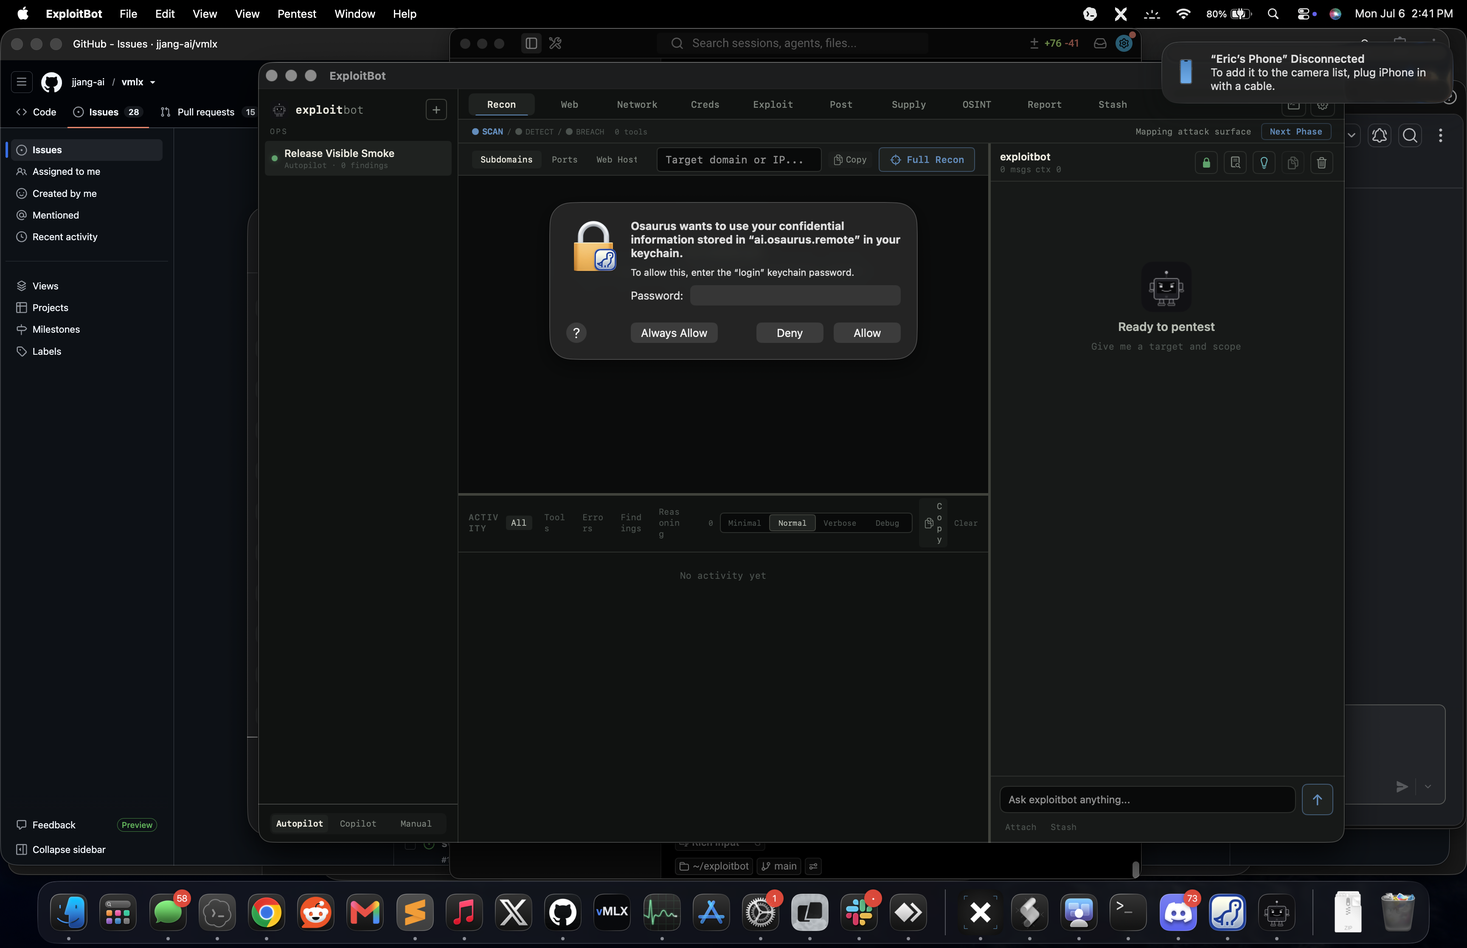
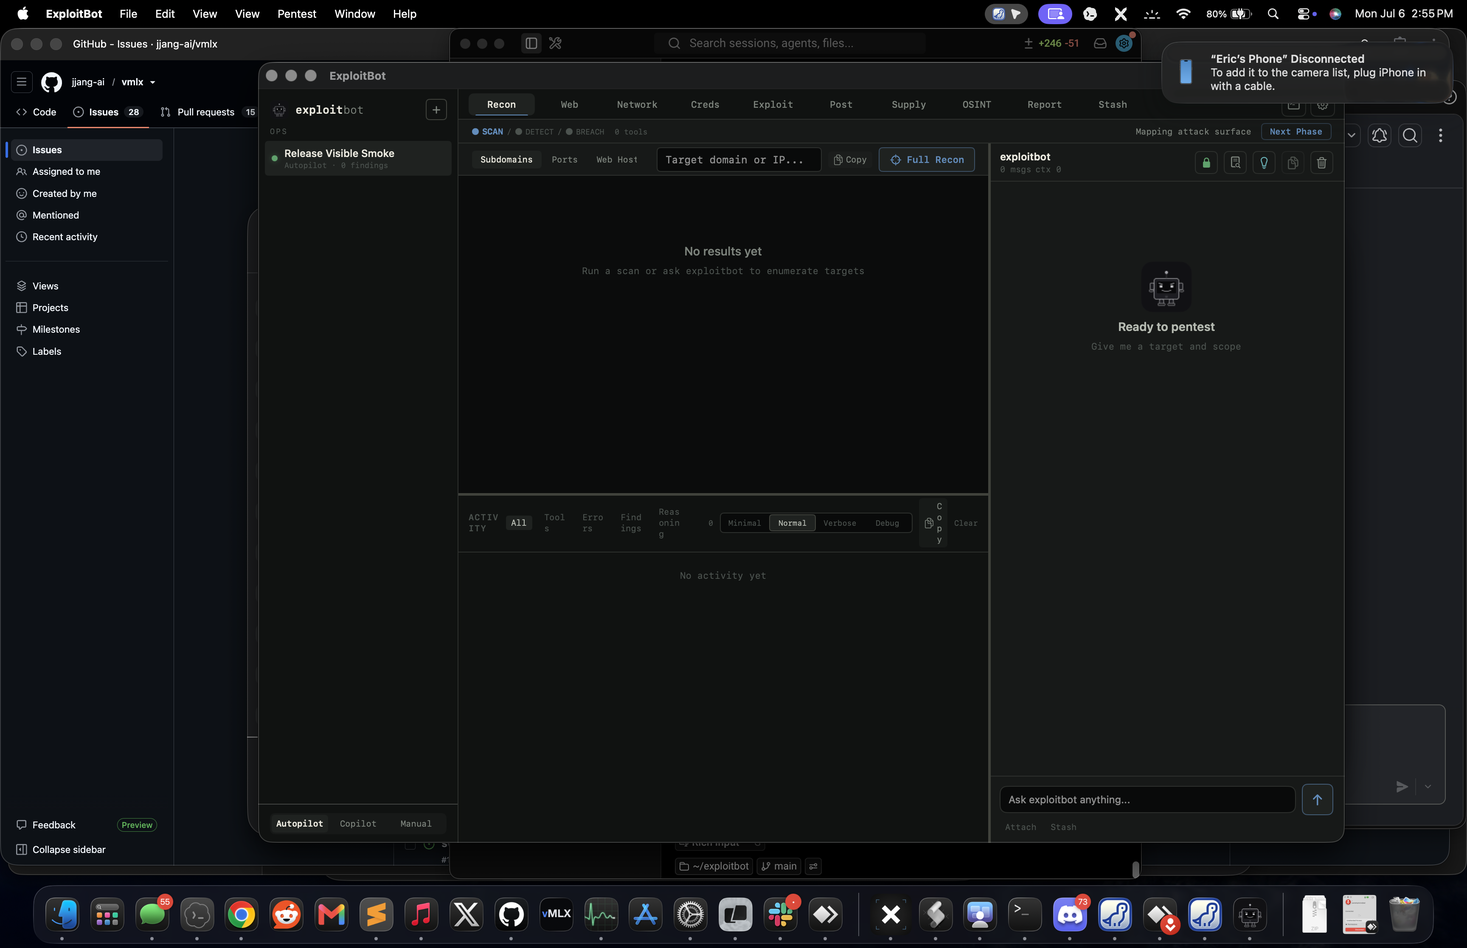
Localize onboarding flow

diff --git a/ExploitBot/Sources/ExploitBot/Views/Onboarding/OnboardingView.swift b/ExploitBot/Sources/ExploitBot/Views/Onboarding/OnboardingView.swift
@@ -67,12 +67,12 @@ struct OnboardingView: View {
             HStack {
                 if step > 1 {
                     Button(action: { withAnimation { step -= 1 } }) {
-                        Text("Back").font(.system(size: 13)).foregroundColor(.textMuted)
+                        Text(Localizer.shared.t("onboard.back")).font(.system(size: 13)).foregroundColor(.textMuted)
                     }.buttonStyle(.plain)
                 }
                 Spacer()
                 Button(action: advance) {
-                    Text(step == totalSteps ? "Start Op" : "Continue")
+                    Text(Localizer.shared.t(step == totalSteps ? "onboard.startOp" : "onboard.continue"))
                         .font(.system(size: 13, weight: .semibold))
                         .foregroundColor(canAdvance ? .accentBlue : .textDim)
                         .padding(.horizontal, 24).padding(.vertical, 8)
@@ -99,7 +99,7 @@ struct OnboardingView: View {
         VStack(spacing: 20) {
             Text(Localizer.shared.t("onboard.language"))
                 .font(.system(size: 24, weight: .bold)).foregroundColor(.textPrimary)
-            Text("exploitbot will display all menus, tools, and reports in your selected language.")
+            Text(Localizer.shared.t("onboard.language.subtitle"))
                 .font(.system(size: 14)).foregroundColor(.textMuted).multilineTextAlignment(.center)
 
             let langs: [(String, String, String)] = [
@@ -149,9 +149,9 @@ struct OnboardingView: View {
 
     var modelStep: some View {
         VStack(spacing: 20) {
-            Text("Select a model")
+            Text(Localizer.shared.t("onboard.model"))
                 .font(.system(size: 24, weight: .bold)).foregroundColor(.textPrimary)
-            Text("Choose a Qwen or MiniMax JANG/JANGTQ model folder on your Mac. The app reads config.json, jang_config.json, and generation_config.json automatically.")
+            Text(Localizer.shared.t("onboard.model.subtitle"))
                 .font(.system(size: 14)).foregroundColor(.textMuted).multilineTextAlignment(.center)
 
             // RAM detection
@@ -160,7 +160,7 @@ struct OnboardingView: View {
                 Image(systemName: "memorychip")
                     .font(.system(size: 13, weight: .semibold))
                     .foregroundColor(.accentBlue)
-                Text("Detected: \(ram) GB Unified Memory")
+                Text(Localizer.shared.t("onboard.model.detectedMemory", Int(ram)))
                     .font(.mono11).foregroundColor(.accentBlue)
             }
             .padding(8)
@@ -170,17 +170,17 @@ struct OnboardingView: View {
 
             // Local model
             VStack(spacing: 8) {
-                Text("Select a model folder already on your Mac:")
+                Text(Localizer.shared.t("onboard.model.folderPrompt"))
                     .font(.system(size: 12)).foregroundColor(.textDim)
                 HStack {
-                    TextField("Model folder path...", text: $modelPath)
+                    TextField(Localizer.shared.t("onboard.model.folderPlaceholder"), text: $modelPath)
                         .textFieldStyle(.plain).font(.mono12).foregroundColor(.textPrimary)
                         .padding(8)
                         .background(RoundedRectangle(cornerRadius: 4).fill(Color.bgInput).overlay(
                             RoundedRectangle(cornerRadius: 4).stroke(Color.borderSubtle)
                         ))
                     Button(action: browseModel) {
-                        Text("Browse").font(.mono11).foregroundColor(.textMuted)
+                        Text(Localizer.shared.t("common.browse")).font(.mono11).foregroundColor(.textMuted)
                             .padding(.horizontal, 12).padding(.vertical, 6)
                             .background(RoundedRectangle(cornerRadius: 4).stroke(Color.borderSubtle))
                     }.buttonStyle(.plain)
@@ -207,15 +207,15 @@ struct OnboardingView: View {
 
     var firstOpStep: some View {
         VStack(spacing: 20) {
-            Text("Create your first Op")
+            Text(Localizer.shared.t("onboard.firstOp"))
                 .font(.system(size: 24, weight: .bold)).foregroundColor(.textPrimary)
-            Text("An Op is a named workspace for a pentest engagement. All tools, findings, and context live inside it.")
+            Text(Localizer.shared.t("onboard.firstOp.subtitle"))
                 .font(.system(size: 14)).foregroundColor(.textMuted).multilineTextAlignment(.center)
 
             VStack(alignment: .leading, spacing: 14) {
                 VStack(alignment: .leading, spacing: 4) {
-                    Text("Op Name").font(.system(size: 12, weight: .semibold)).foregroundColor(.textSecondary)
-                    TextField("e.g. Acme Corp External, Bug Bounty, Lab Practice", text: $opName)
+                    Text(Localizer.shared.t("onboard.firstOp.name")).font(.system(size: 12, weight: .semibold)).foregroundColor(.textSecondary)
+                    TextField(Localizer.shared.t("onboard.firstOp.namePlaceholder"), text: $opName)
                         .textFieldStyle(.plain).font(.system(size: 13)).foregroundColor(.textPrimary)
                         .padding(10)
                         .background(RoundedRectangle(cornerRadius: 4).fill(Color.bgInput).overlay(
@@ -224,8 +224,8 @@ struct OnboardingView: View {
                 }
 
                 VStack(alignment: .leading, spacing: 4) {
-                    Text("Scope (optional)").font(.system(size: 12, weight: .semibold)).foregroundColor(.textSecondary)
-                    Text("In-scope targets — one per line").font(.mono9).foregroundColor(.textDim)
+                    Text(Localizer.shared.t("onboard.firstOp.scope")).font(.system(size: 12, weight: .semibold)).foregroundColor(.textSecondary)
+                    Text(Localizer.shared.t("onboard.firstOp.scopeHint")).font(.mono9).foregroundColor(.textDim)
                     TextEditor(text: $scopeText)
                         .font(.mono12).foregroundColor(.textPrimary)
                         .scrollContentBackground(.hidden)
@@ -237,16 +237,16 @@ struct OnboardingView: View {
                 }
 
                 VStack(alignment: .leading, spacing: 4) {
-                    Text("Interaction Mode").font(.system(size: 12, weight: .semibold)).foregroundColor(.textSecondary)
+                    Text(Localizer.shared.t("onboard.firstOp.interactionMode")).font(.system(size: 12, weight: .semibold)).foregroundColor(.textSecondary)
                     HStack(spacing: 8) {
-                        ModeCard(symbol: "gearshape.2", name: "Autopilot", desc: "Full autonomous", selected: selectedMode == .autopilot) { selectedMode = .autopilot }
-                        ModeCard(symbol: "person.2", name: "Copilot", desc: "AI suggests, you approve", selected: selectedMode == .copilot) { selectedMode = .copilot }
-                        ModeCard(symbol: "scope", name: "Manual", desc: "You drive", selected: selectedMode == .manual) { selectedMode = .manual }
+                        ModeCard(symbol: "gearshape.2", name: Localizer.shared.t("mode.autopilot"), desc: Localizer.shared.t("mode.autopilot.desc"), selected: selectedMode == .autopilot) { selectedMode = .autopilot }
+                        ModeCard(symbol: "person.2", name: Localizer.shared.t("mode.copilot"), desc: Localizer.shared.t("mode.copilot.desc"), selected: selectedMode == .copilot) { selectedMode = .copilot }
+                        ModeCard(symbol: "scope", name: Localizer.shared.t("mode.manual"), desc: Localizer.shared.t("mode.manual.desc"), selected: selectedMode == .manual) { selectedMode = .manual }
                     }
                 }
 
                 Toggle(isOn: $enforceScope) {
-                    Text("Enforce scope (block out-of-scope targets)")
+                    Text(Localizer.shared.t("onboard.firstOp.enforceScope"))
                         .font(.system(size: 12)).foregroundColor(.textMuted)
                 }
                 .toggleStyle(DarkSwitchToggleStyle())
@@ -290,7 +290,7 @@ struct OnboardingView: View {
         let panel = NSOpenPanel()
         panel.canChooseDirectories = true
         panel.canChooseFiles = false
-        panel.message = "Select a JANG/MLX model folder"
+        panel.message = Localizer.shared.t("onboard.model.folderPicker")
         if panel.runModal() == .OK, let url = panel.url {
             selectModelFolder(url.path)
         } else {
@@ -305,9 +305,9 @@ struct OnboardingView: View {
 
     func stepLabel(_ s: Int) -> String {
         switch s {
-        case 1: return "Language"
-        case 2: return "Model"
-        case 3: return "First Op"
+        case 1: return Localizer.shared.t("onboard.language")
+        case 2: return Localizer.shared.t("onboard.model")
+        case 3: return Localizer.shared.t("onboard.firstOp")
         default: return ""
         }
     }

diff --git a/ExploitBot/Sources/ExploitBot/Services/Localizer.swift b/ExploitBot/Sources/ExploitBot/Services/Localizer.swift
@@ -150,12 +150,54 @@ class Localizer {
             "es": "Elige tu idioma",
             "ja": "言語を選択してください"
         ],
+        "onboard.language.subtitle": [
+            "en": "exploitbot will display all menus, tools, and reports in your selected language.",
+            "ko": "exploitbot은 선택한 언어로 모든 메뉴, 도구, 보고서를 표시합니다.",
+            "zh": "exploitbot 将使用你选择的语言显示所有菜单、工具和报告。",
+            "es": "exploitbot mostrará todos los menús, herramientas e informes en el idioma elegido.",
+            "ja": "exploitbot は選択した言語ですべてのメニュー、ツール、レポートを表示します。"
+        ],
         "onboard.model": [
             "en": "Select a model",
             "ko": "모델 선택",
             "zh": "选择模型",
             "es": "Selecciona un modelo",
             "ja": "モデルを選択"
+        ],
+        "onboard.model.subtitle": [
+            "en": "Choose a Qwen or MiniMax JANG/JANGTQ model folder on your Mac. The app reads config.json, jang_config.json, and generation_config.json automatically.",
+            "ko": "Mac의 Qwen 또는 MiniMax JANG/JANGTQ 모델 폴더를 선택하세요. 앱은 config.json, jang_config.json, generation_config.json을 자동으로 읽습니다.",
+            "zh": "选择 Mac 上的 Qwen 或 MiniMax JANG/JANGTQ 模型文件夹。应用会自动读取 config.json、jang_config.json 和 generation_config.json。",
+            "es": "Elige una carpeta de modelo Qwen o MiniMax JANG/JANGTQ en tu Mac. La app lee config.json, jang_config.json y generation_config.json automáticamente.",
+            "ja": "Mac 上の Qwen または MiniMax JANG/JANGTQ モデルフォルダを選択してください。アプリは config.json、jang_config.json、generation_config.json を自動的に読み取ります。"
+        ],
+        "onboard.model.detectedMemory": [
+            "en": "Detected: %d GB Unified Memory",
+            "ko": "감지됨: %d GB 통합 메모리",
+            "zh": "已检测：%d GB 统一内存",
+            "es": "Detectado: %d GB de memoria unificada",
+            "ja": "検出: %d GB ユニファイドメモリ"
+        ],
+        "onboard.model.folderPrompt": [
+            "en": "Select a model folder already on your Mac:",
+            "ko": "Mac에 이미 있는 모델 폴더를 선택하세요:",
+            "zh": "选择 Mac 上已有的模型文件夹：",
+            "es": "Selecciona una carpeta de modelo que ya esté en tu Mac:",
+            "ja": "Mac 上にあるモデルフォルダを選択してください:"
+        ],
+        "onboard.model.folderPlaceholder": [
+            "en": "Model folder path...",
+            "ko": "모델 폴더 경로...",
+            "zh": "模型文件夹路径...",
+            "es": "Ruta de la carpeta del modelo...",
+            "ja": "モデルフォルダのパス..."
+        ],
+        "onboard.model.folderPicker": [
+            "en": "Select a JANG/MLX model folder",
+            "ko": "JANG/MLX 모델 폴더 선택",
+            "zh": "选择 JANG/MLX 模型文件夹",
+            "es": "Selecciona una carpeta de modelo JANG/MLX",
+            "ja": "JANG/MLX モデルフォルダを選択"
         ],
         "onboard.firstOp": [
             "en": "Create your first Op",
@@ -164,9 +206,49 @@ class Localizer {
             "es": "Crea tu primer Op",
             "ja": "最初の Op を作成"
         ],
+        "onboard.firstOp.subtitle": [
+            "en": "An Op is a named workspace for a pentest engagement. All tools, findings, and context live inside it.",
+            "ko": "Op는 모의해킹 작업을 위한 이름 있는 작업 공간입니다. 모든 도구, 발견 사항, 컨텍스트가 그 안에 저장됩니다.",
+            "zh": "Op 是渗透测试项目的命名工作区。所有工具、发现和上下文都保存在其中。",
+            "es": "Una Op es un espacio de trabajo con nombre para un pentest. Todas las herramientas, hallazgos y contexto viven ahí.",
+            "ja": "Op はペンテスト案件用の名前付きワークスペースです。すべてのツール、検出結果、コンテキストがそこに保存されます。"
+        ],
+        "onboard.firstOp.name": ["en": "Op Name", "ko": "Op 이름", "zh": "Op 名称", "es": "Nombre de Op", "ja": "Op 名"],
+        "onboard.firstOp.namePlaceholder": [
+            "en": "e.g. Acme Corp External, Bug Bounty, Lab Practice",
+            "ko": "예: Acme Corp External, Bug Bounty, Lab Practice",
+            "zh": "例如：Acme Corp External、Bug Bounty、Lab Practice",
+            "es": "p. ej. Acme Corp External, Bug Bounty, Lab Practice",
+            "ja": "例: Acme Corp External、Bug Bounty、Lab Practice"
+        ],
+        "onboard.firstOp.scope": ["en": "Scope (optional)", "ko": "범위(선택)", "zh": "范围（可选）", "es": "Alcance (opcional)", "ja": "スコープ（任意）"],
+        "onboard.firstOp.scopeHint": [
+            "en": "In-scope targets - one per line",
+            "ko": "범위 내 대상 - 한 줄에 하나씩",
+            "zh": "范围内目标 - 每行一个",
+            "es": "Objetivos dentro del alcance - uno por línea",
+            "ja": "対象範囲内ターゲット - 1 行に 1 つ"
+        ],
+        "onboard.firstOp.interactionMode": [
+            "en": "Interaction Mode",
+            "ko": "상호작용 모드",
+            "zh": "交互模式",
+            "es": "Modo de interacción",
+            "ja": "操作モード"
+        ],
+        "onboard.firstOp.enforceScope": [
+            "en": "Enforce scope (block out-of-scope targets)",
+            "ko": "범위 적용(범위 밖 대상 차단)",
+            "zh": "强制范围（阻止范围外目标）",
+            "es": "Aplicar alcance (bloquear objetivos fuera de alcance)",
+            "ja": "スコープを強制（対象外ターゲットをブロック）"
+        ],
         "onboard.continue": ["en": "Continue", "ko": "계속", "zh": "继续", "es": "Continuar", "ja": "続行"],
         "onboard.back": ["en": "Back", "ko": "뒤로", "zh": "返回", "es": "Atrás", "ja": "戻る"],
         "onboard.startOp": ["en": "Start Op", "ko": "Op 시작", "zh": "开始 Op", "es": "Iniciar Op", "ja": "Op を開始"],
+        "mode.autopilot.desc": ["en": "Full autonomous", "ko": "완전 자율", "zh": "完全自主", "es": "Totalmente autónomo", "ja": "完全自律"],
+        "mode.copilot.desc": ["en": "AI suggests, you approve", "ko": "AI가 제안하고 사용자가 승인", "zh": "AI 建议，你批准", "es": "La IA sugiere, tú apruebas", "ja": "AI が提案し、あなたが承認"],
+        "mode.manual.desc": ["en": "You drive", "ko": "사용자가 직접 제어", "zh": "你来操作", "es": "Tú diriges", "ja": "あなたが操作"],
 
         // Findings
         "finding.create": ["en": "Create Finding", "ko": "발견 생성", "zh": "创建发现", "es": "Crear hallazgo", "ja": "検出結果を作成"],

diff --git a/ExploitBot/Sources/ExploitBot/Models/AppState.swift b/ExploitBot/Sources/ExploitBot/Models/AppState.swift
@@ -2785,6 +2785,19 @@ svc-backup:REDACTED_SAMPLE_SECRET
                 "stashAdd": state.localizer.t("stash.add"),
                 "findingCreate": state.localizer.t("finding.create"),
             ],
+            "onboarding": [
+                "language": state.localizer.t("onboard.language"),
+                "languageSubtitle": state.localizer.t("onboard.language.subtitle"),
+                "model": state.localizer.t("onboard.model"),
+                "modelSubtitle": state.localizer.t("onboard.model.subtitle"),
+                "folderPrompt": state.localizer.t("onboard.model.folderPrompt"),
+                "firstOp": state.localizer.t("onboard.firstOp"),
+                "firstOpSubtitle": state.localizer.t("onboard.firstOp.subtitle"),
+                "opName": state.localizer.t("onboard.firstOp.name"),
+                "scope": state.localizer.t("onboard.firstOp.scope"),
+                "interactionMode": state.localizer.t("onboard.firstOp.interactionMode"),
+                "enforceScope": state.localizer.t("onboard.firstOp.enforceScope"),
+            ],
         ]
     }
 

diff --git a/ExploitBotEngine/testsuite/test_i18n_contracts.py b/ExploitBotEngine/testsuite/test_i18n_contracts.py
@@ -7,6 +7,7 @@ LOCALIZER = ROOT / "ExploitBot/Sources/ExploitBot/Services/Localizer.swift"
 TOOL_DEFINITIONS = ROOT / "ExploitBot/Sources/ExploitBot/Services/ToolDefinitions.swift"
 TOOL_TAB = ROOT / "ExploitBot/Sources/ExploitBot/Models/ToolTab.swift"
 APP_STATE = ROOT / "ExploitBot/Sources/ExploitBot/Models/AppState.swift"
+ONBOARDING_VIEW = ROOT / "ExploitBot/Sources/ExploitBot/Views/Onboarding/OnboardingView.swift"
 LIVE_I18N_PROOF = ROOT / "scripts/i18n-language-toggle-proof.py"
 
 LANGUAGES = ["en", "ko", "zh", "es", "ja"]
@@ -91,6 +92,47 @@ def test_core_settings_chat_report_and_tool_output_strings_have_i18n_keys():
             assert f'"{language}":' in entry, f"{key} missing {language}"
 
 
+def test_onboarding_primary_visible_text_is_localized():
+    keys = localizer_keys()
+    onboarding_source = source(ONBOARDING_VIEW)
+    required = {
+        "onboard.language.subtitle",
+        "onboard.model.subtitle",
+        "onboard.model.detectedMemory",
+        "onboard.model.folderPrompt",
+        "onboard.model.folderPlaceholder",
+        "onboard.firstOp.subtitle",
+        "onboard.firstOp.name",
+        "onboard.firstOp.namePlaceholder",
+        "onboard.firstOp.scope",
+        "onboard.firstOp.scopeHint",
+        "onboard.firstOp.interactionMode",
+        "onboard.firstOp.enforceScope",
+        "mode.autopilot.desc",
+        "mode.copilot.desc",
+        "mode.manual.desc",
+        "common.browse",
+    }
+
+    assert required.issubset(keys)
+    for key in required:
+        entry = localizer_entry(key)
+        for language in LANGUAGES:
+            assert f'"{language}":' in entry, f"{key} missing {language}"
+        assert f'Localizer.shared.t("{key}"' in onboarding_source
+
+    forbidden = [
+        'Text("exploitbot will display all menus, tools, and reports in your selected language.")',
+        'Text("Choose a Qwen or MiniMax JANG/JANGTQ model folder on your Mac.',
+        'Text("Create your first Op")',
+        'Text("Interaction Mode")',
+        'Text("Enforce scope (block out-of-scope targets)")',
+        'TextField("Model folder path..."',
+    ]
+    for literal in forbidden:
+        assert literal not in onboarding_source
+
+
 def test_app_exposes_live_i18n_snapshot_route_for_language_toggle_proofs():
     text = source(APP_STATE)
 
@@ -100,6 +142,9 @@ def test_app_exposes_live_i18n_snapshot_route_for_language_toggle_proofs():
     assert '"supportedLanguages": Localizer.supportedLanguages' in text
     assert '"tabs": Dictionary(uniqueKeysWithValues: ToolTab.allCases.map' in text
     assert '"tools": Dictionary(uniqueKeysWithValues:' in text
+    assert '"onboarding": [' in text
+    assert 'state.localizer.t("onboard.language.subtitle")' in text
+    assert 'state.localizer.t("onboard.firstOp.enforceScope")' in text
 
 
 def test_live_i18n_language_toggle_proof_contract_is_present():
@@ -113,3 +158,4 @@ def test_live_i18n_language_toggle_proof_contract_is_present():
     assert "tabLabelsChanged" in text
     assert "toolLabelsPresent" in text
     assert "coreLabelsChanged" in text
+    assert "onboardingLabelsChanged" in text

diff --git a/scripts/i18n-language-toggle-proof.py b/scripts/i18n-language-toggle-proof.py
@@ -108,6 +108,15 @@ def build_report(started_at: str, snapshots: dict[str, dict[str, Any]], state_af
             and es.get("core", {}).get("chatApprove") == "Aprobar"
             and ja.get("core", {}).get("chatApprove") == "承認"
         ),
+        "onboardingLabelsChanged": passfail(
+            en.get("onboarding", {}).get("languageSubtitle", "").startswith("exploitbot will display")
+            and es.get("onboarding", {}).get("languageSubtitle", "").startswith("exploitbot mostrará")
+            and ja.get("onboarding", {}).get("languageSubtitle", "").startswith("exploitbot は")
+            and es.get("onboarding", {}).get("model") == "Selecciona un modelo"
+            and ja.get("onboarding", {}).get("model") == "モデルを選択"
+            and es.get("onboarding", {}).get("enforceScope") == "Aplicar alcance (bloquear objetivos fuera de alcance)"
+            and ja.get("onboarding", {}).get("enforceScope") == "スコープを強制（対象外ターゲットをブロック）"
+        ),
         "noModelLoaded": passfail(state_after.get("engineRunning") is False and not state_after.get("model")),
     }
     ok = all(value == "PASS" for value in checks.values())
@@ -123,7 +132,7 @@ def build_report(started_at: str, snapshots: dict[str, dict[str, Any]], state_af
         "stateAfter": state_after,
         "notes": [
             "This verifies the app language state and localized labels through live QA routes.",
-            "It does not prove every visible SwiftUI Text has been converted from hard-coded strings yet.",
+            "It covers tabs, representative tools, core controls, and primary onboarding labels; a full source-wide hard-coded Text replacement sweep remains separate.",
         ],
     }
 

diff --git a/docs/live-validation-2026-07-04.md b/docs/live-validation-2026-07-04.md
@@ -1309,6 +1309,7 @@ BLOCKED:
 - [x] Refresh the current-machine Tools settings inventory, all-installed smoke, and Computer Use visible Tools panel for the expanded 44-tool registry. `semgrep` and `bandit` were installed with `uv tool install` and are detected at `/Users/eric/.local/bin/semgrep` version `1.168.0` and `/Users/eric/.local/bin/bandit` version `1.9.4`. `docs/live-proofs/2026-07-04-tool-settings-real-inventory.json` now reports `installedCount=44`, `missingCount=0`, `errorPentestTools=[]`, and `fullPentestToolchainInstalled=PASS`; `docs/live-proofs/2026-07-05-all-installed-tools-smoke.json` reports `toolCount=44` with `PASS=44` and `FAIL=0` under `safeSmokeOnly=true`, `externalTargetExecution=not-started`, and `modelDrivenEvidence=not-claimed`. Computer Use artifact `docs/live-proofs/2026-07-06-computer-use-tools-inventory-44-dist.json` attaches CUA version `857` to current `dist/ExploitBot.app` PID `3617`; visible Settings > Tools shows `44 installed` / `0 missing`, disabled `Install All Missing`, and same-process localhost `:9999` API confirms `toolCount=44`, `semgrep` and `bandit` installed.
[2 lines of base64/hex data omitted]
+- [x] Tighten i18n coverage for the first-run onboarding path instead of only representative tabs/tools. `Localizer.swift` now includes five-language strings for the onboarding language subtitle, model-folder instructions, detected unified-memory label, model-folder prompt/placeholder/folder-picker prompt, first-Op subtitle, Op name/scope/interaction labels, enforce-scope toggle, and mode descriptions. `OnboardingView.swift` now renders those labels through `Localizer.shared.t(...)`, and `/qa/i18n-snapshot` exposes an `onboarding` block for live route proofs. `scripts/i18n-language-toggle-proof.py` refreshed `docs/live-proofs/2026-07-06-i18n-language-toggle.json` at `2026-07-06T14:51:18-0700` with `onboardingLabelsChanged=PASS`, `tabLabelsChanged=PASS`, `toolLabelsPresent=PASS`, `coreLabelsChanged=PASS`, and `noModelLoaded=PASS` after toggling Spanish and Japanese through the live app. Boundary: this materially improves the visible first-run path, but it is not a claim that every hard-coded SwiftUI `Text` in the whole app has been replaced yet.
 - [ ] Remaining release gate: configure notary credentials, notarize, staple, rerun release/public-truth/notarization proofs, then rerun the goal audit. Local app/DMG signing and release Tools UI are refreshed; completion claims remain blocked until notarization/public-truth gates pass.
 - [ ] Remaining stress gate: full-context proof stays PARTIAL above the proven 192k safe ceiling. Current artifacts prove 192k completion, but 196k stalled after chunked-prefill entry and 200k/224k/258k are guarded/refused or aborted by memory guard rather than completed with final output and cache writes.
 
